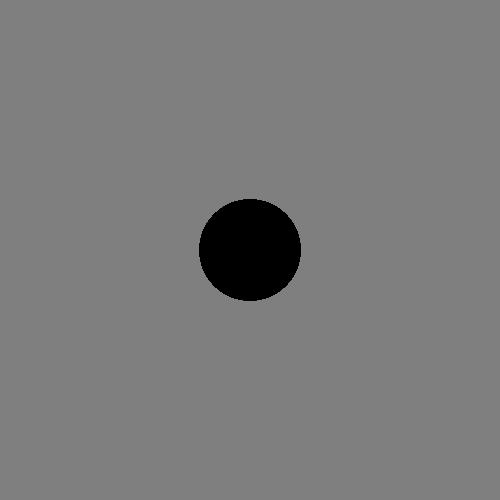
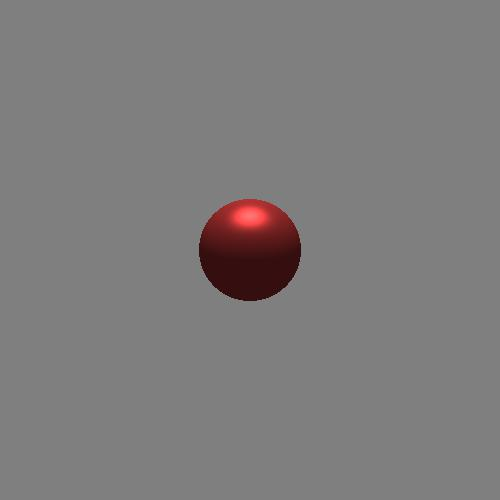
Corrigido cor da esfera

Changed region(s): [[0.39, 0.39, 0.6, 0.6]]

diff --git a/Scene.py b/Scene.py
@@ -41,9 +41,9 @@ class Scene():
         fonte = np.array([0.7, 0.7, 0.7])
         ambient = np.array([0.3, 0.3, 0.3])
 
-        diffuse = fd*np.cross(fonte, np.float64(object.kd))
-        e = fe*np.cross(fonte, np.float64(object.ke))
-        ambient = np.cross(ambient, np.float64(object.ka))
+        diffuse = fd*vec_product(fonte, object.kd)
+        e = fe*vec_product(fonte, object.ke)
+        ambient = vec_product(ambient, object.ka)
 
         if(isShadowed):
             return ambient

diff --git a/utils.py b/utils.py
@@ -6,4 +6,4 @@ def normalize(x):
     return x
 
 def vec_product(x, y):
-    return np.array([x[1]*y[1], x[2]*y[2], x[3]*y[3]])
+    return np.array([x[0]*y[0], x[1]*y[1], x[2]*y[2]])
